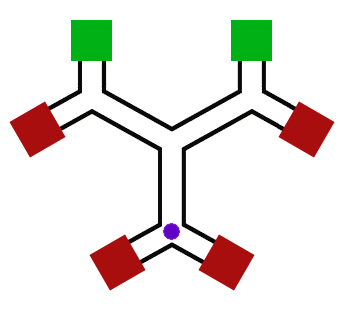
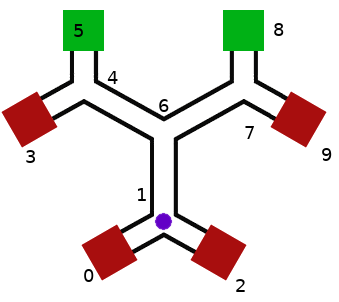
:art: Add numbering to graph

diff --git a/random-walk-graph.py b/random-walk-graph.py
@@ -34,7 +34,7 @@ nsuccess = 0
 # Execute 1million times this command sequence
 for step in range(1, 1000000):
     # Choose a random start node
-    vertexid = 1 #random.choice(G.nodes())
+    vertexid = random.choice([1, 4, 6, 7]) #1
     # Dictionary that associate nodes with the amount of times it was visited
     visited_vertices = {}
     # Store and print path
